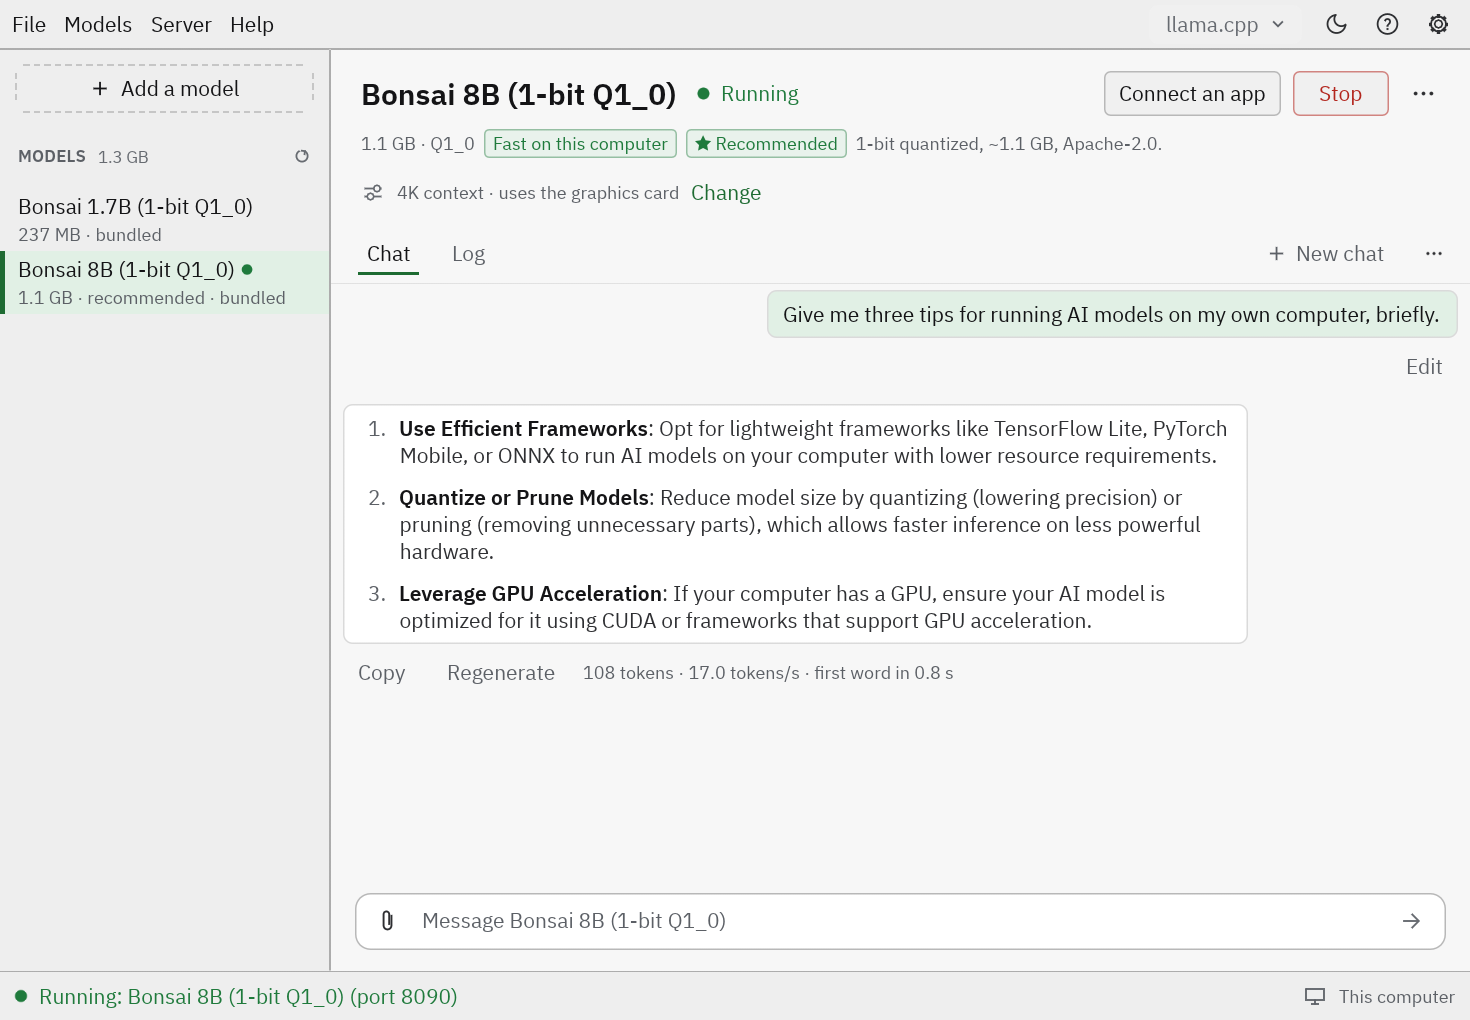
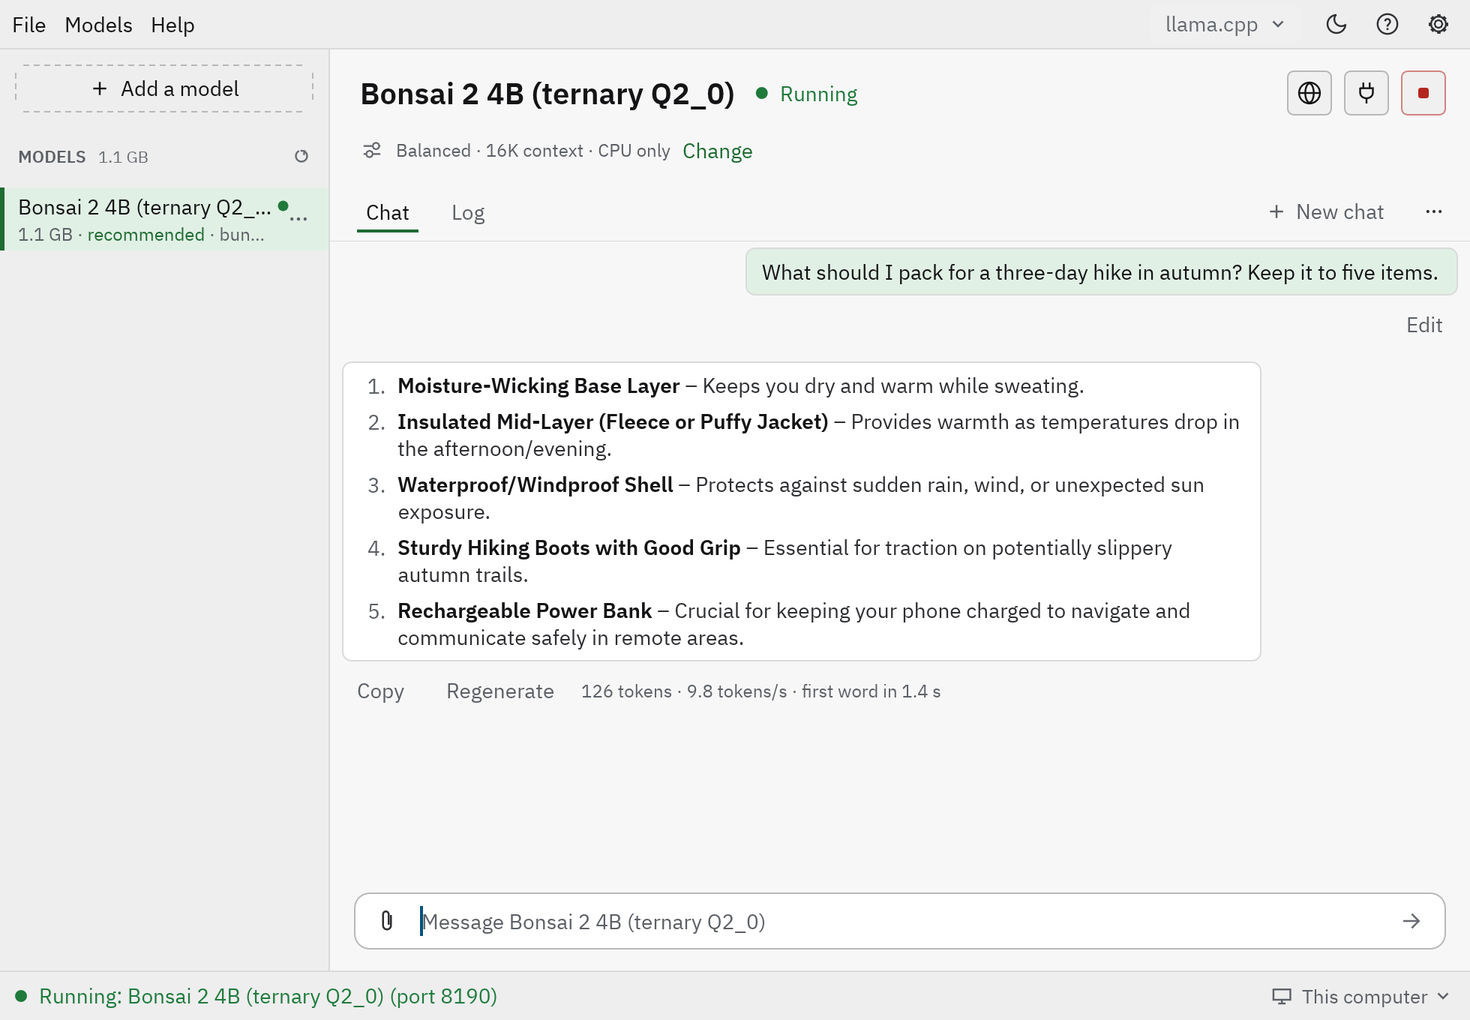
README: the window as it is now, with the model QuickAI comes with
The pictures still showed the old window with Bonsai 8B. These are from the 0.2.2 package on a clean
install, with Bonsai 2 4B.

diff --git a/README.md b/README.md
@@ -25,7 +25,7 @@
 <p align="center">
   <picture>
     <source media="(prefers-color-scheme: dark)" srcset="assets/readme/quickai-dark.png">
-    <img src="assets/readme/quickai-light.png" width="760" alt="The QuickAI window running the Bonsai 8B model: the menu bar, the models in a list on the left under Add a model, the chosen model with Start beside its name and the line that says how it runs, the chat, and the status bar saying Running">
+    <img src="assets/readme/quickai-light.png" width="760" alt="The QuickAI window running Bonsai 2 4B, the model it comes with: Add a model and the list of models on the left, the model and how it runs on the right, its reply to a question in the chat, and Running in the status bar.">
   </picture>
 </p>
 
